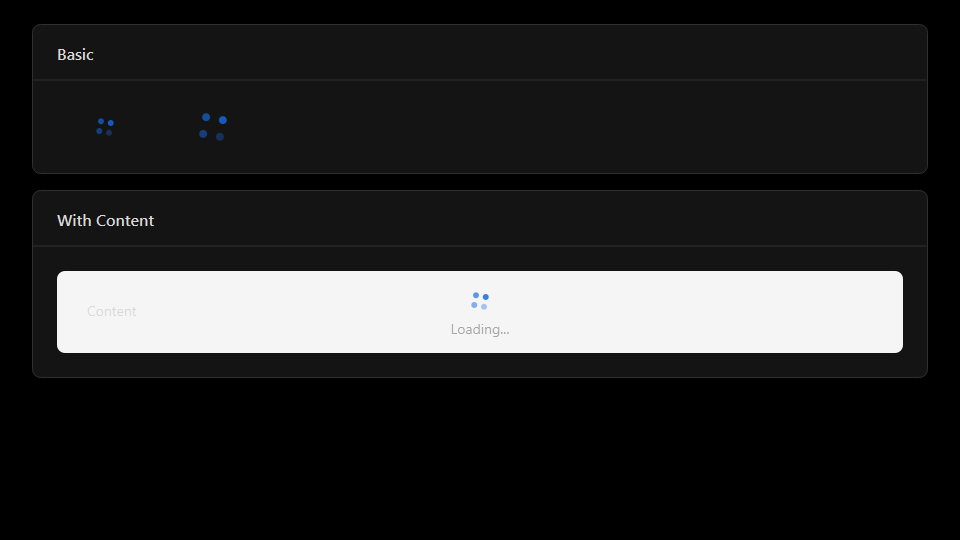
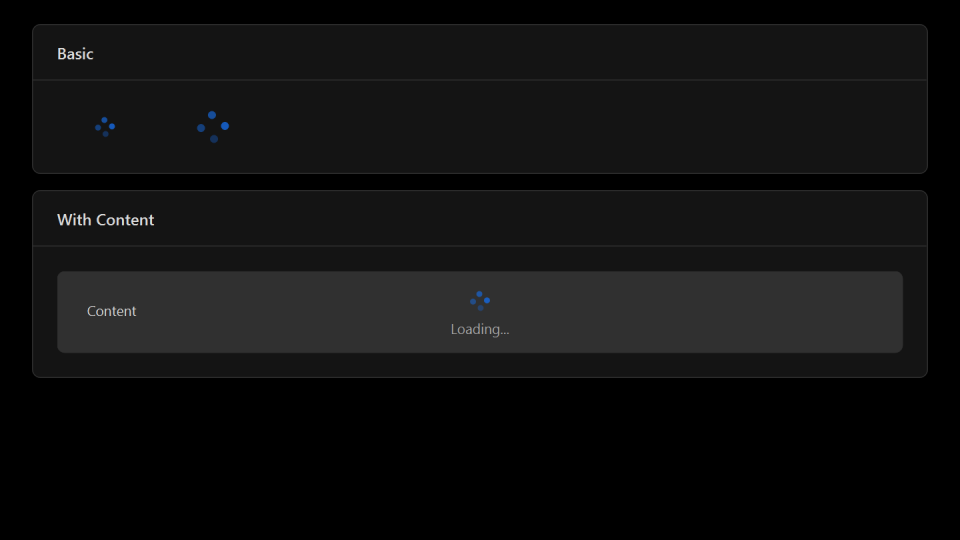
docs: refresh dark README thumbnails

diff --git a/examples/pages/OtherPages.cpp b/examples/pages/OtherPages.cpp
@@ -88,12 +88,13 @@ class SpinContentSurface : public RoundedDemoSurface
 {
 public:
     explicit SpinContentSurface(QWidget* parent = nullptr)
-        : RoundedDemoSurface(QStringLiteral("Content"), QColor(QStringLiteral("#f5f5f5")), QColor(), parent)
+        : RoundedDemoSurface(QStringLiteral("Content"), QColor(), QColor(), parent)
         , m_spinner(new AntSpin(this))
     {
         setFixedHeight(82);
         m_spinner->setDescription(QStringLiteral("Loading..."));
         m_spinner->resize(120, 64);
+        connect(antTheme, &AntTheme::themeChanged, this, qOverload<>(&QWidget::update));
     }
 
 protected:
@@ -106,7 +107,7 @@ protected:
         const QRectF r = rect().adjusted(0.5, 0.5, -0.5, -0.5);
         QPainterPath path;
         path.addRoundedRect(r, 8, 8);
-        painter.fillPath(path, QColor(QStringLiteral("#f5f5f5")));
+        painter.fillPath(path, antTheme->tokens().colorFillSecondary);
 
         painter.setPen(antTheme->tokens().colorText);
         painter.drawText(rect().adjusted(30, 30, -30, -30), Qt::AlignLeft | Qt::AlignTop, QStringLiteral("Content"));

diff --git a/docs/project-status.md b/docs/project-status.md
@@ -89,6 +89,7 @@ This snapshot records the current state after the Showcase, ColorPicker popup, A
 - Added `docs/reliability-coverage.md` and a `TestAntCoverageInventory` guard so every public component must remain covered by at least one component-specific behavior/API test in addition to lifecycle, meta-property, theme-lifecycle, and render-smoke coverage.
 - Fixed `AntMessage` so a toast that visually covers controls still closes on click while forwarding that click to the underlying anchor widget, preventing covered controls such as `AntSegmented` from missing the selection change.
 - Completed a passive-overlay hit-test audit: interactive popups keep their normal input capture, while non-interactive overlays no longer steal covered-control clicks. `AntToolTip`, `AntWatermark`, and the `AntSlider` drag value bubble are mouse-transparent, and `AntNotification` cleanup now guards relayout against a destroyed anchor.
+- Refreshed the README dark thumbnails for `AntResult`, `AntSpin`, and `AntTour`; `AntResult` now shows transparent dark-mode status icons, `AntSpin` uses a token-driven dark content surface, and `AntTour` captures the active Step 1 overlay state.
 
 Latest targeted passive-overlay hit-test validation:
 
@@ -273,6 +274,16 @@ Select-String -Path README.md,README.zh-CN.md -Pattern 'resources/images/compone
 ```
 
 Result: `166` committed PNG screenshots validated at `960x540`, and `166` unique README image references resolved on `2026-05-08`.
+
+Latest targeted README dark thumbnail refresh validation:
+
+```powershell
+cmake --build build --config Debug --target TestAntFeedback qt-ant-design-example
+ctest --test-dir build -C Debug -R "TestAntFeedback$" --output-on-failure
+.\build\examples\Debug\qt-ant-design-example.exe --smoke-exit-ms 800
+```
+
+Result: `AntResult`, `AntSpin`, and `AntTour` dark thumbnails were regenerated at `960x540`, `1 / 1` targeted feedback test passed, the example Debug build succeeded, and the example smoke launch exited cleanly on `2026-05-17`.
 
 Latest targeted AntTour / AntResult issue validation:
 

diff --git a/docs/visual-audit.md b/docs/visual-audit.md
@@ -237,10 +237,10 @@ Qt extension widgets have no official AntD component reference. Audit them again
 | Feedback | Notification | NotificationPage | Notification | Pass | Open Basic notification compared against `build/notification-compare-wide.png`; progress and loading cards compared against `build/feedback-interactive-state-compare-light.png` and `build/feedback-interactive-state-compare-dark.png`. Official no-icon `open` call, title/description text, close affordance, top-right placement, progress bar, loading spinner, and Basic/Success/Loading Progress trigger row are aligned. |
 | Feedback | Popconfirm | PopconfirmPage | Popconfirm | Pass | Open Basic popconfirm compared against `build/popconfirm-compare-wide.png`; second-pass open-state matrix compared against `build/popup-state-compare-light.png` and `build/popup-state-compare-dark.png`. Official title/description, warning icon, Yes/No and ok-only small button states, one-piece arrow surface, dark elevated surface, and danger trigger are aligned. The Qt helper crop differs from the full reference sidebar layout but no control-owned visual mismatch remains. |
 | Feedback | Progress | ProgressPage | Progress | Pass | Line and Circle demos compared against `build/progress-compare-wide.png`; official 80/60 active/100/50 exception values, rails, status colors, and success/error glyphs aligned. Shared demo-container width remains out of scope. |
-| Feedback | Result | ResultPage | Result | Pass | Success and Error results compared against `build/result-compare-wide.png`; official icon colors, transparent dark-mode status icon background, titles, subtitles, centered layout, and primary Go Home action aligned. Shared Card body height remains out of scope. |
+| Feedback | Result | ResultPage | Result | Pass | Success and Error results compared against `build/result-compare-wide.png`; official icon colors, transparent dark-mode status icon background, titles, subtitles, centered layout, and primary Go Home action aligned. The README dark thumbnail was refreshed with the transparent icon rendering. Shared Card body height remains out of scope. |
 | Feedback | Skeleton | SkeletonPage | Skeleton | Pass | Basic and Avatar & Title skeletons compared against `build/skeleton-compare-wide.png`; active shimmer, avatar circle, title/paragraph bar rhythm, and muted fill color aligned. Shared Card body width remains out of scope. |
-| Feedback | Spin | SpinPage | Spin | Pass | Basic and With Content spin demos compared against `build/spin-compare-wide.png`; small/default spin dots, large content spinner, Loading text, and muted content panel aligned. Animation phase is expected to vary frame-to-frame. |
-| Feedback | Tour | TourPage | Tour | Pass | Static Basic reference compared against `build/tour-compare-wide.png`; active step overlay compared against `build/feedback-interactive-state-compare-light.png` and `build/feedback-interactive-state-compare-dark.png`. Instructional copy, Step 1/2/3 trigger buttons, direct step launch, mask, target spotlight, tooltip bubble, arrow, close affordance, and primary action are aligned. |
+| Feedback | Spin | SpinPage | Spin | Pass | Basic and With Content spin demos compared against `build/spin-compare-wide.png`; small/default spin dots, large content spinner, Loading text, and muted content panel aligned. The README dark thumbnail uses a token-driven dark content surface. Animation phase is expected to vary frame-to-frame. |
+| Feedback | Tour | TourPage | Tour | Pass | Static Basic reference compared against `build/tour-compare-wide.png`; active step overlay compared against `build/feedback-interactive-state-compare-light.png` and `build/feedback-interactive-state-compare-dark.png`. Instructional copy, Step 1/2/3 trigger buttons, direct step launch, mask, target spotlight, tooltip bubble, arrow, close affordance, and primary action are aligned. The README dark thumbnail captures the active Step 1 overlay state. |
 | Feedback | Watermark | WatermarkPage | Watermark | Pass | Basic watermark compared against `build/watermark-compare-wide.png`; default Ant Design text, -22 degree rotation, repeat gap, overlay alpha, bordered content surface, centered content text, and mouse-transparent passive overlay behavior aligned. |
 | Other | App | AppPage | App | Pass | Static API-wrapper reference compared against `build/app-compare-wide.png`; official App Component section title and explanatory paragraph aligned. Inline code pill styling belongs to Typography; App behavior remains API-level and covered by tests. |
 | Other | ConfigProvider | ConfigProviderPage | ConfigProvider | Pass | Static API-wrapper reference compared against `build/configprovider-compare-wide.png`; official ConfigProvider section title and explanatory paragraph aligned. Theme/locale application remains API-level and covered by tests. |